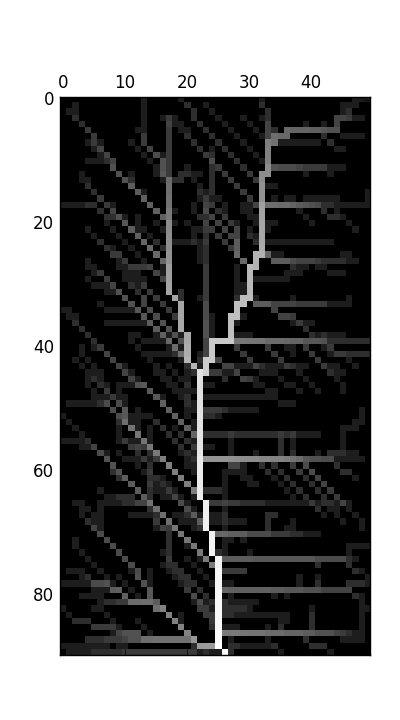
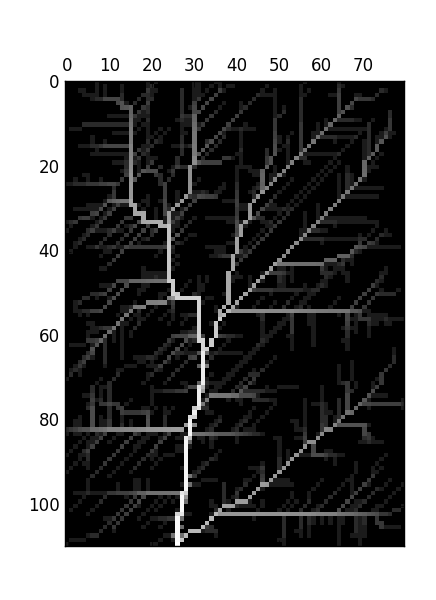
Add initial stems

diff --git a/desirelines.py b/desirelines.py
@@ -4,8 +4,10 @@ import matplotlib.pyplot as plt
 import numpy as np
 import random as rng
 
-WIDTH = 4
-HEIGHT = 7
+rng.seed(1)
+
+WIDTH = 80
+HEIGHT = 110
 
 class DGraph(nx.Graph):
   """Desire graph."""
@@ -13,12 +15,14 @@ class DGraph(nx.Graph):
     super(DGraph, self).__init__()
     self.width = width
     self.height = height
+    self.node_count = width * height
     self.indexed_nodes = range(width*height)
     # Grid maps
     self.ind2grid = lambda ind : [ind%width, int(ind/width)]
     self.grid2ind = lambda i,j : int(i + j*width)
     # Add nodes
     self.add_nodes_from([(i,dict(coords=self.ind2grid(i), nodeweight=1)) for i in self.indexed_nodes])
+    self.total_visits = self.node_count * [0]
     # Add edges
     self.__init_add_edges()
     # Shortest path memoisation
@@ -49,16 +53,48 @@ class DGraph(nx.Graph):
     return super(DGraph, self).__setitem__(self.grid2ind(*key), item)
 
   def update_shortest_path(self):
-    self.shortest_path_list = nx.shortest_path(self, self.shortest_path_centre, weight = 'weight')
+    self.shortest_path_list = nx.shortest_path(self, source = None, target = self.grid2ind(*self.shortest_path_centre), weight = 'weight')
 
-  def release_agents(self, batch_count = 10):
-    #TODO
-    # Pick random paths to centre for batch_count agents
-    # Lower weights for all visited nodes
-    # Reset visited nodes
+  def perturb_initial_weights(self):
+    # perturbation to avoid initial manhatten-norm
+    for node_in, node_out in self.edges():
+      if node_in < node_out: #Directed graph G[a][b] = G[b][a]
+        w = 1 + .05*(1-2*rng.random())
+        G[node_in][node_out]['weight'] = w
+        # G[node_out][node_in]['weight'] = w
+
+
+  def release_agents(self, batch_count = 10, agent_list = None, weight_factor = .95):
+    if agent_list:
+      agent_starts = [self.grid2ind(*a) for a in agent_list]
+    else:
+      agent_starts = [self.grid2ind(rng.choice(range(self.width)), rng.choice(range(self.height)))
+                      for _ in range(batch_count)] # Todo: Make slightly uniform
+    # List shortest paths
+    s_paths = [self.shortest_path_list[start] for start in agent_starts]
+    # Add up visits per node
+    visits = self.node_count * [0]
+    for path in s_paths:
+      for node in path:
+        visits[node] += 1
+        self.total_visits[node] += 1
+
+    # Lower all weights according to current visits
+    for node_out, node_in in self.edges():
+      # Flatten
+      G[node_out][node_in]['weight'] *= weight_factor**(visits[node_out] + visits[node_in])
+      # Regrowth:
+      G[node_out][node_in]['weight'] += .001*rng.random()
     # Update shortest_path
+    self.update_shortest_path()
     return
 
+  def draw(self):
+    arr = np.log(np.array(self.total_visits)+1)
+    mat = np.reshape(arr, (self.height, self.width))[::-1, ::]
+    plt.matshow(mat, cmap=plt.cm.gray)
+    plt.savefig('plot.png')
+    plt.show()
 
 
 
@@ -68,8 +104,19 @@ class DGraph(nx.Graph):
 
 
 G = DGraph(WIDTH, HEIGHT)
+G.perturb_initial_weights()
 
-G.shortest_path_centre = 0
+
+G.shortest_path_centre = (WIDTH//3,0)
 # G.update_shortest_path()
+G.update_shortest_path()
 
-print(G.nodes(1))
+# initial stems
+G.release_agents(agent_list = [[2*WIDTH//3, 8*HEIGHT//9]], weight_factor = .90)
+G.release_agents(agent_list = [(i*WIDTH // 5 + WIDTH //10, (3 + i*(4-i))*HEIGHT//9) for i in range(5)], weight_factor = .90)
+
+# Random agents:
+for i in range(35):
+  G.release_agents(batch_count = 20)
+G.draw()
+
